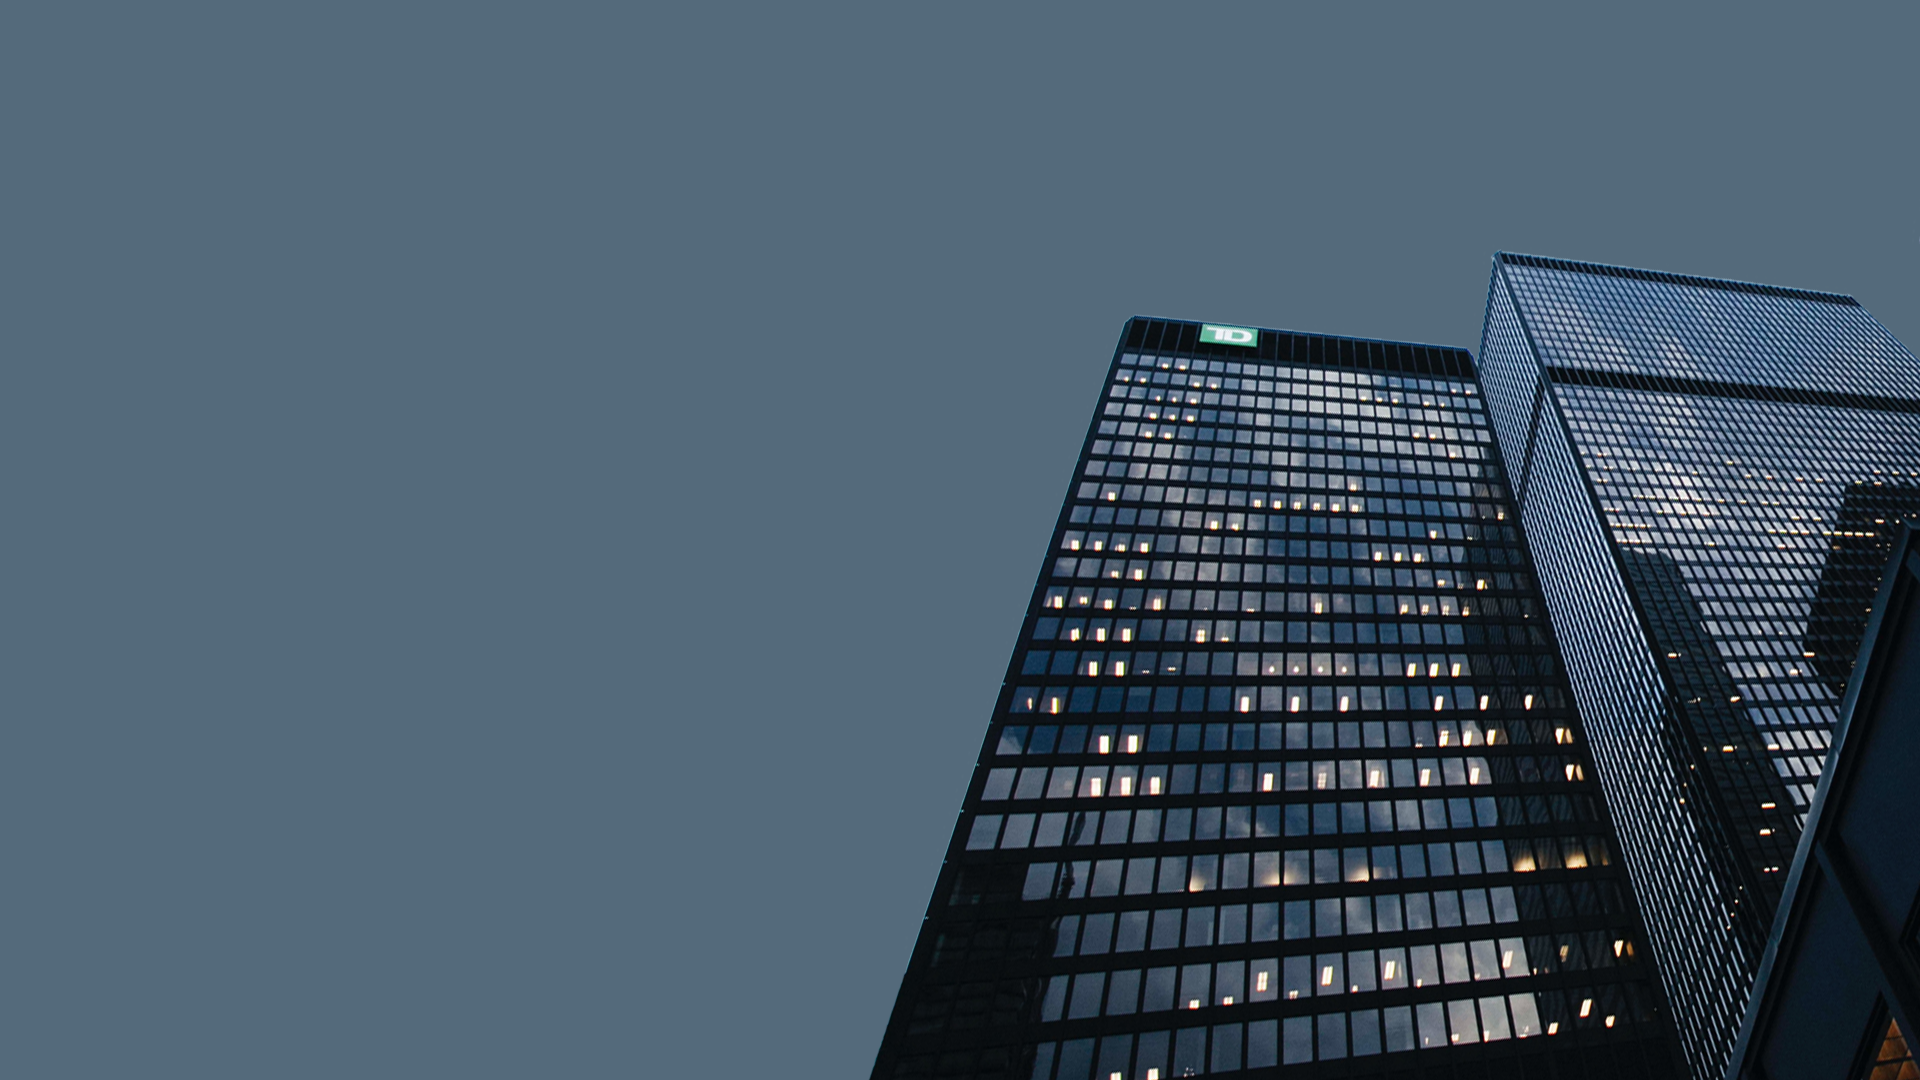
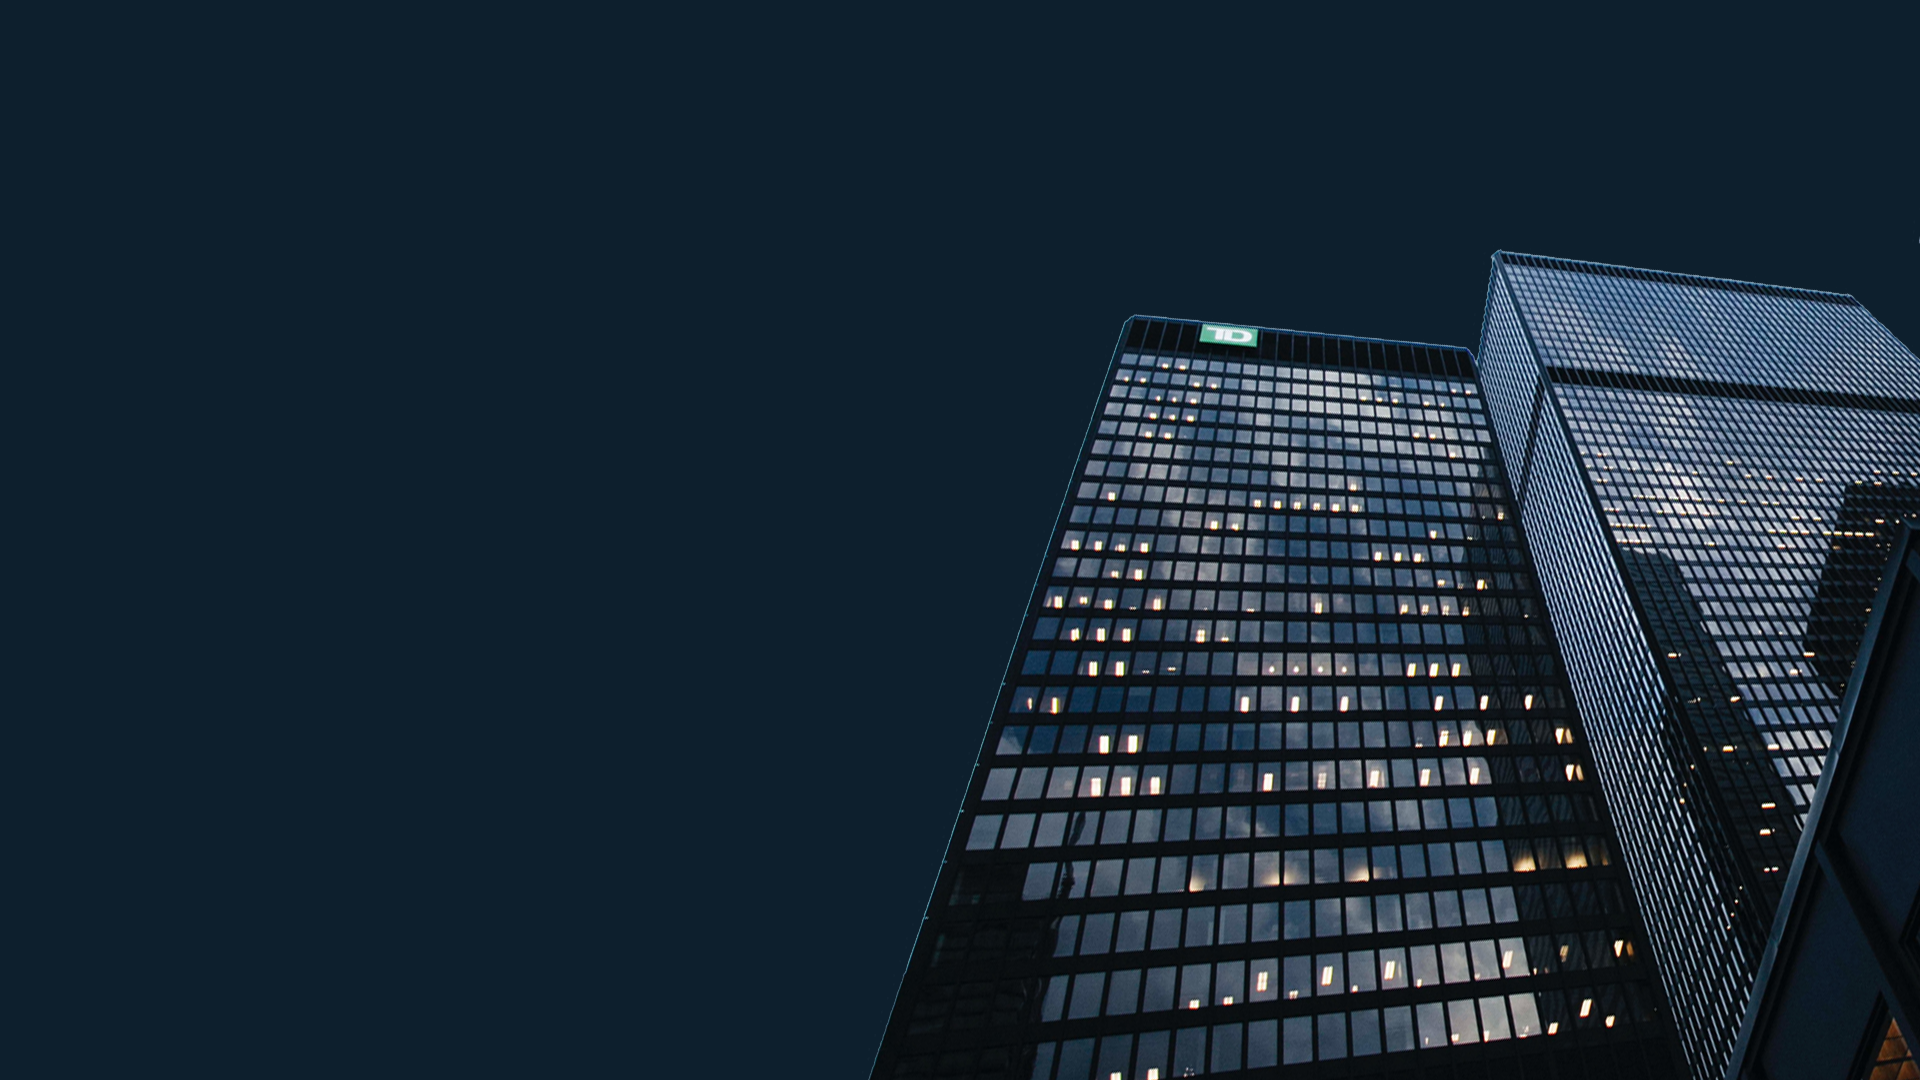
Color and IMG

diff --git a/style.css b/style.css
@@ -1,8 +1,8 @@
 :root{
-    --main-color : #0D1F2D;
-    --bg-color :#546A7B;
+    --main-color : #546A7B;
+    --bg-color :#0D1F2D;
     --text-color : #9EA3B0;
-    --primary-color : #122b3d;
+    --primary-color : #5f788b;
 }
 
 *{
